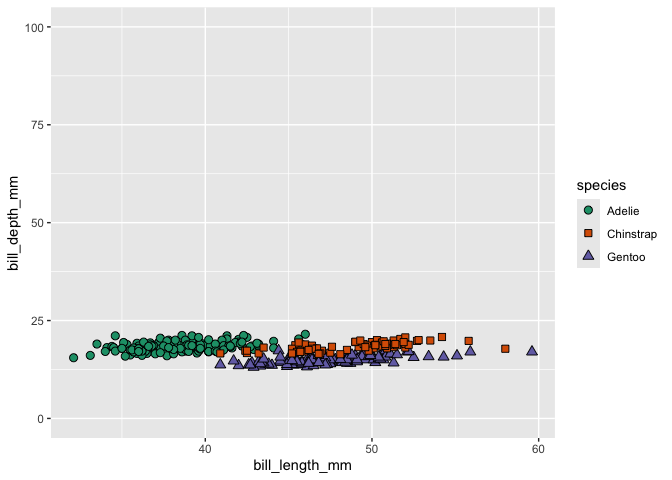
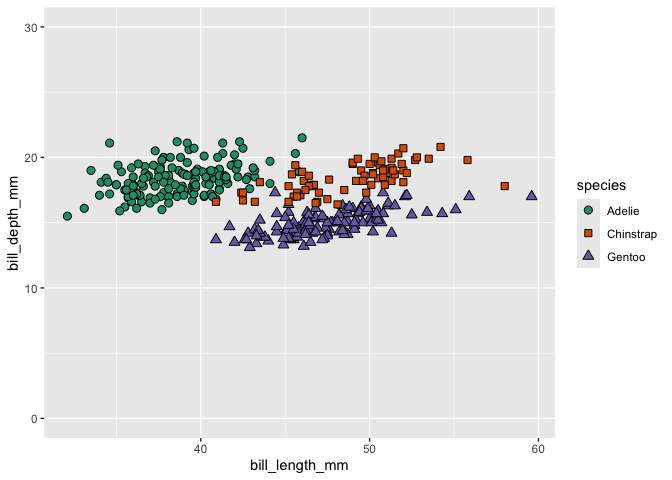
Mostly finished penguin example

diff --git a/README.md b/README.md
@@ -107,13 +107,13 @@ That previous graph only addresses part of our question: we asked not
 only “how are bill length and bill depth associated”, but also “**how
 does this vary by species of penguin**?”
 
-To address the second part of our question,
+To address the second part of our question:
 
 1.  Change the aesthetics of this plot to color the points by the
     species of penguin and
 
-2.  Interpret the graph by describing if this changes your answer to the
-    previous question.
+2.  Interpret the graph by describing the relationship you see and if
+    this new visualization changes your answer to the previous question.
 
 The take-home message here is to be thorough with how you look at your
 data! If you ignore certain variables, you might miss important patterns
@@ -261,8 +261,9 @@ change up the scales of their graphs are:
 1.  Changing the limits of their plots and
 2.  Transforming axis values to log scales.
 
-Let’s modify the y-axis. It’s a continuous variable, so we use
-`scale_y_continuous()`.
+Let’s change the limits of the y-axis to go between 0 and 30mm. It’s a
+continuous variable, so we use `scale_y_continuous()` and provide a
+vector of a minimum and a maximum.
 
 ``` r
 ggplot(data = penguins, aes(x = bill_length_mm, y = bill_depth_mm)) +
@@ -271,7 +272,7 @@ ggplot(data = penguins, aes(x = bill_length_mm, y = bill_depth_mm)) +
              size = 2.5) +
   scale_fill_brewer(palette = "Dark2") +
   scale_shape_manual(values = c(21, 22, 24)) +
-  scale_y_continuous(limits = c(0, 100))
+  scale_y_continuous(limits = c(0, 30))
 ```
 
     Warning: Removed 2 rows containing missing values or values outside the scale range
@@ -279,9 +280,204 @@ ggplot(data = penguins, aes(x = bill_length_mm, y = bill_depth_mm)) +
 
 ![](README.markdown_github_files/figure-markdown_github/unnamed-chunk-11-1.png)
 
-## Labels
+### Q1.4: How to use the existing maximum for limits
+
+Let’s say we want our limits to include 0, but we want to use ggplot’s
+default for the maximum y limit. Go to the built-in help page of
+`scale_y_continuous()` and figure out what to replace the \* with in
+`limits = c(0, *)` in order to accomplish this, then modify modify that
+code below.
+
+------------------------------------------------------------------------
+
+Another reason to modify the way your axes look is if we want to plot on
+a log scale. This can be very useful if your data spans many orders of
+magnitude (multiples of 10) - aka there are many very small values that
+get masked by other large values.
+
+We do this with `scale_y_log10()`, though this isn’t a great dataset to
+use as an example because the data is all very close together - it won’t
+look very different!
+
+``` r
+ggplot(data = penguins, aes(x = bill_length_mm, y = bill_depth_mm)) +
+  geom_point(aes(fill = species,
+                 shape = species),
+             size = 2.5) +
+  scale_fill_brewer(palette = "Dark2") +
+  scale_shape_manual(values = c(21, 22, 24)) +
+  scale_y_log10()
+```
+
+    Warning: Removed 2 rows containing missing values or values outside the scale range
+    (`geom_point()`).
+
+![](README.markdown_github_files/figure-markdown_github/unnamed-chunk-12-1.png)
+
+## Axis and legend titles
+
+Let’s backtrack a little bit to the graph before we started messing with
+the y-axis and talk about how to make better axis and legend titles. By
+default, ggplot creates these titles based on the column names that you
+specify within `aes()`. However, “bill_length_mm” is a pretty lame axis
+title for a presentation.
+
+To change this, we use the `labs()` function, which allows us to rename
+whatever `aes()` elements we have specified in the format
+`x = "New x axis title"` and/or
+`fill = "New legend title for the fill"`.
+
+``` r
+ggplot(data = penguins, aes(x = bill_length_mm, y = bill_depth_mm)) +
+  geom_point(aes(fill = species,
+                 shape = species),
+             size = 2.5) +
+  scale_fill_brewer(palette = "Dark2") +
+  scale_shape_manual(values = c(21, 22, 24)) +
+  labs(x = "Bill length (mm)",
+       y = "Bill depth (mm)")
+```
+
+    Warning: Removed 2 rows containing missing values or values outside the scale range
+    (`geom_point()`).
+
+![](README.markdown_github_files/figure-markdown_github/unnamed-chunk-13-1.png)
+
+### Q1.5: Change the legend title
+
+The legend title is currently not capitalized - add to the `labs()`
+function to change the title of the correct aesthetic(s) to make the
+legend title read “Species”. (You may encounter an unexpected result -
+try and figure out what you can do to make it appear how you want!).
 
 ## Themes
+
+This is looking decent, but there’s still more we can do; we have lots
+of flexibility in how the non-data-related components of the graph look
+(think the font size, background color, axis grid lines, etc.). To
+modify this, we add **themes** using the `theme()` function.
+
+Go to the help page for `theme()`, read the description, and scroll down
+to see the extent of the components you can modify. Also see this link
+for a handy visual guide:
+<https://statsandr.com/blog/best-rstudio-addins-in-rstudio-or-how-to-make-your-coding-life-easier_files/ggplot_theme_system_cheatsheet.pdf>
+
+Within the `theme()` function, we specify the element that we want to
+modify, for instance, the `axis.title.x =` modifies the x axis title.
+Because the x axis title is a `text` element, we then add
+`axis.title.x = element_text()` and specify things within the
+`element_text()` function.
+
+``` r
+ggplot(data = penguins, aes(x = bill_length_mm, y = bill_depth_mm)) +
+  geom_point(aes(fill = species,
+                 shape = species),
+             size = 2.5) +
+  scale_fill_brewer(palette = "Dark2") +
+  scale_shape_manual(values = c(21, 22, 24)) +
+  labs(x = "Bill length (mm)",
+       y = "Bill depth (mm)", 
+       fill = "Species",
+       shape = "Species") +
+  theme(axis.title.x = element_text(color = "red",
+                                    size = 16))
+```
+
+    Warning: Removed 2 rows containing missing values or values outside the scale range
+    (`geom_point()`).
+
+![](README.markdown_github_files/figure-markdown_github/unnamed-chunk-14-1.png)
+
+Depending on what the element is, you use a different `element_*()`
+function:
+
+`element_text()`: Controls text appearance (font, size, color, etc.) for
+titles, labels, and axis text. `element_rect()`: Controls the appearance
+of rectangular elements like the plot background and legend background
+(fill, border color, etc.). `element_line()`: Controls the appearance of
+line elements like grid lines and axis lines (color, size, linetype,
+etc.). `element_blank()`: Hides or removes an element entirely (e.g.,
+`panel.grid.major = element_blank()`).
+
+### Q1.6: What font faces are available?
+
+Go to the `element_text()` help page: under “Usage” you will see what
+arguments each element function can modify, and if you scroll down to
+“Arguments” you can read more about the specifics of each element you
+can modify.
+
+What are the four options for the “face” of the text?
+
+------------------------------------------------------------------------
+
+Modifying ALL THAT from scratch can be overwhelming! Thankfully, R has a
+handful of built-in, pre-curated themes that you can choose from. Add on
+a new line to this graph and start typing `theme_` - note how multiple
+options pop up! Let’s click on and add `theme_classic()`.
+
+``` r
+ggplot(data = penguins, aes(x = bill_length_mm, y = bill_depth_mm)) +
+  geom_point(aes(fill = species,
+                 shape = species),
+             size = 2.5) +
+  scale_fill_brewer(palette = "Dark2") +
+  scale_shape_manual(values = c(21, 22, 24)) +
+  labs(x = "Bill length (mm)",
+       y = "Bill depth (mm)", 
+       fill = "Species",
+       shape = "Species") +
+  theme(axis.title.x = element_text(color = "red",
+                                    size = 16)) +
+  theme_classic()
+```
+
+    Warning: Removed 2 rows containing missing values or values outside the scale range
+    (`geom_point()`).
+
+![](README.markdown_github_files/figure-markdown_github/unnamed-chunk-15-1.png)
+
+That looks quite nice! The weird gray default background is gone, and
+there’s now a traditional x and y axis with no axis panel grids.
+
+Note that the large, red x-axis title has been overridden by the new
+theme we put in. What happens when you switch the order and put
+`theme_classic()` before `theme(...)`? (don’t forget to remove/add `+`’s
+where applicable…).
+
+Try out some of the other built-in themes and see what you like!
+
+------------------------------------------------------------------------
+
+Themes contain far too much content to walk through here - hopefully
+this provides a springboard into the possibilities! Always remember to
+revisit help pages and the cheatsheets that have been provided along the
+way.
+
+``` r
+ggplot(data = penguins, aes(x = bill_length_mm, y = bill_depth_mm)) +
+  geom_point(aes(fill = species,
+                 shape = species),
+             size = 2.5) +
+  scale_fill_brewer(palette = "Dark2") +
+  scale_shape_manual(values = c(21, 22, 24)) +
+  labs(x = "Bill length (mm)",
+       y = "Bill depth (mm)", 
+       fill = "Species",
+       shape = "Species") +
+  theme_classic() +
+  theme(axis.title = element_text(size = 14),
+        axis.text = element_text(size = 12),
+        legend.text = element_text(size = 12),
+        legend.title = element_text(size = 12),
+        legend.position = "inside",
+        legend.position.inside = c(0.9, 0.15)
+        )
+```
+
+    Warning: Removed 2 rows containing missing values or values outside the scale range
+    (`geom_point()`).
+
+![](README.markdown_github_files/figure-markdown_github/unnamed-chunk-16-1.png)
 
 # 2) CO2 Uptake in Grass Plants Data
 
